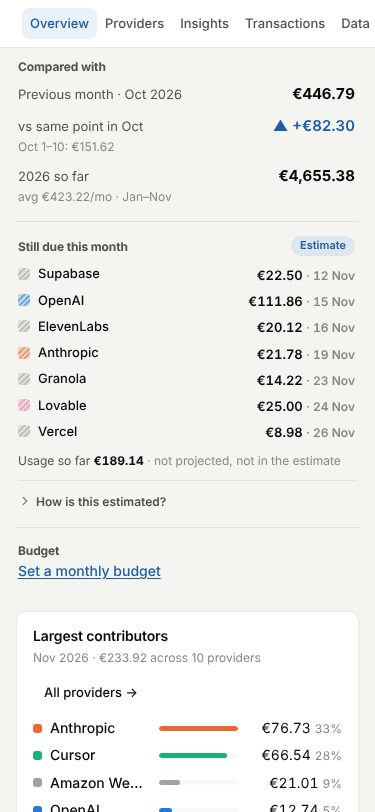
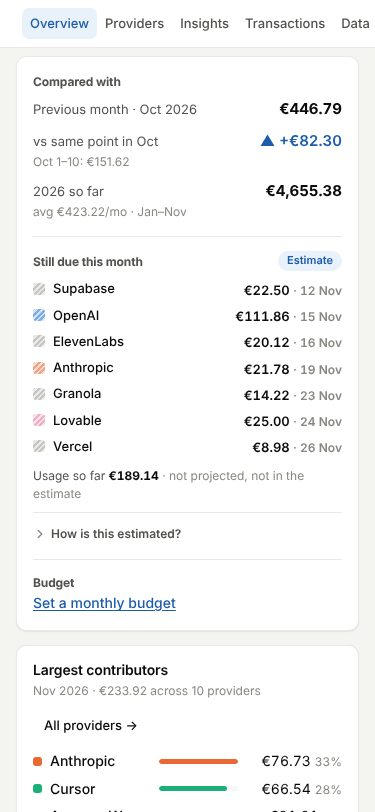
Overview: side column is one card
The column beside the chart is a single card with the chart card's padding,
sections separated by the existing divider lines. It stretches to the chart
card's height with its content at the top. Screenshots refreshed.

Claude-Session: https://claude.ai/code/session_01Qfp4rP4nVFq2Vcf3hHVvn6

diff --git a/src/styles.css b/src/styles.css
@@ -427,9 +427,11 @@ a.legend-item:hover { color: var(--ink); text-decoration: underline; }
 .dot-hatch { background: repeating-linear-gradient(135deg, color-mix(in srgb, var(--hatch) 62%, transparent) 0 2px, color-mix(in srgb, var(--hatch) 22%, transparent) 2px 4px); }
 .chart-tip-sub { display: flex; justify-content: space-between; gap: 12px; margin: 6px 0 2px; padding-top: 5px; border-top: 1px solid var(--border); font-weight: 600; }
 
-.overview-side { display: flex; flex-direction: column; min-width: 0; }
-.side-section { padding: 14px 4px 14px 2px; border-top: 1px solid var(--border); }
-.side-section:first-child { border-top: 0; padding-top: 2px; }
+/* One card, the same padding as the chart card; it stretches to the chart card's height and its content stays at the top. */
+.overview-side { display: flex; flex-direction: column; justify-content: flex-start; min-width: 0; padding: 16px 16px 14px; }
+.side-section { padding: 14px 0; border-top: 1px solid var(--border); }
+.side-section:first-child { border-top: 0; padding-top: 0; }
+.side-section:last-child { padding-bottom: 0; }
 .side-section h3 { font-size: 12px; font-weight: 650; color: var(--ink-2); text-transform: none; }
 .side-row { padding: 8px 0 2px; }
 .side-row-main { display: flex; align-items: baseline; justify-content: space-between; gap: 12px; }

diff --git a/src/components/OverviewSide.tsx b/src/components/OverviewSide.tsx
@@ -251,7 +251,7 @@ export function OverviewSide({
   dueColor: (e: ExpectedCharge) => string;
 }) {
   return (
-    <aside className="overview-side" aria-label="Comparisons, what is still due and budget">
+    <aside className="card overview-side" aria-label="Comparisons, what is still due and budget">
       <Compared period={period} inProgress={inProgress} asOf={asOf} />
       {inProgress && <StillDue forecast={forecast} colorOf={dueColor} />}
       <BudgetSection />
